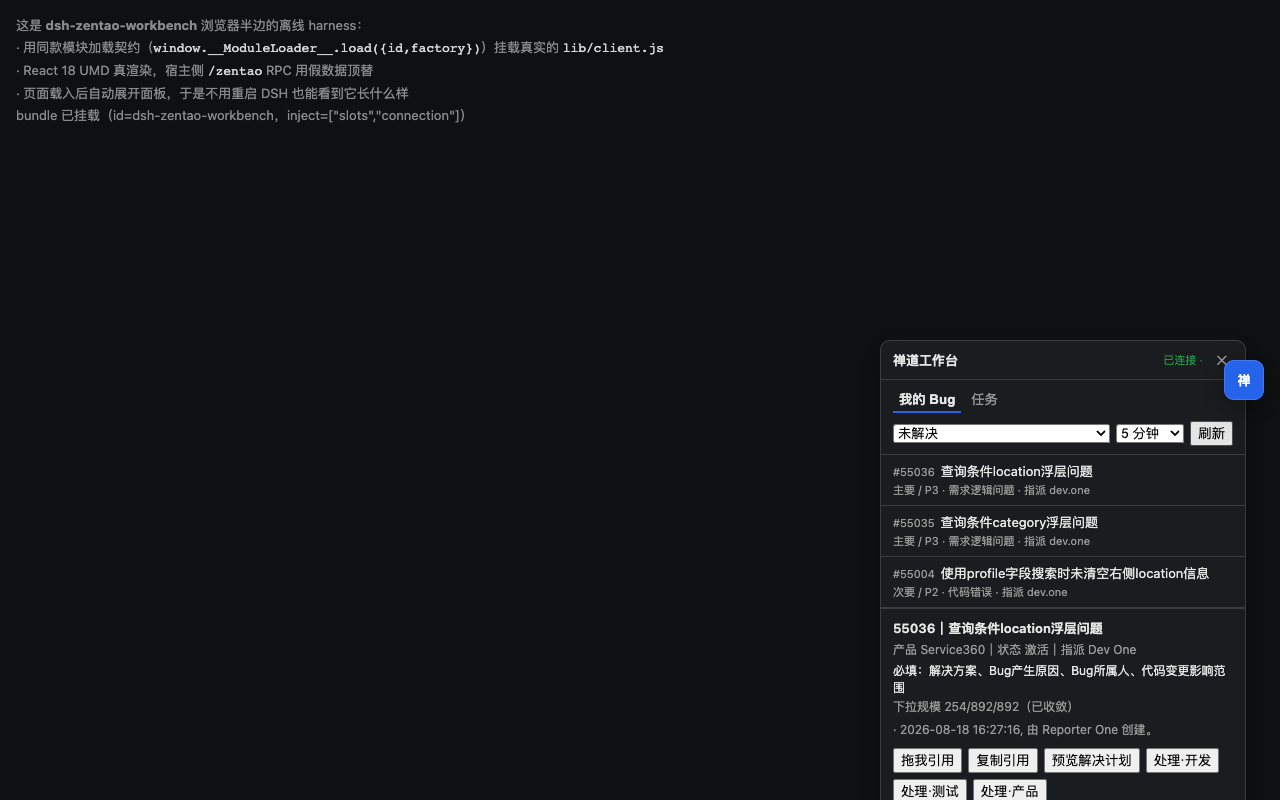
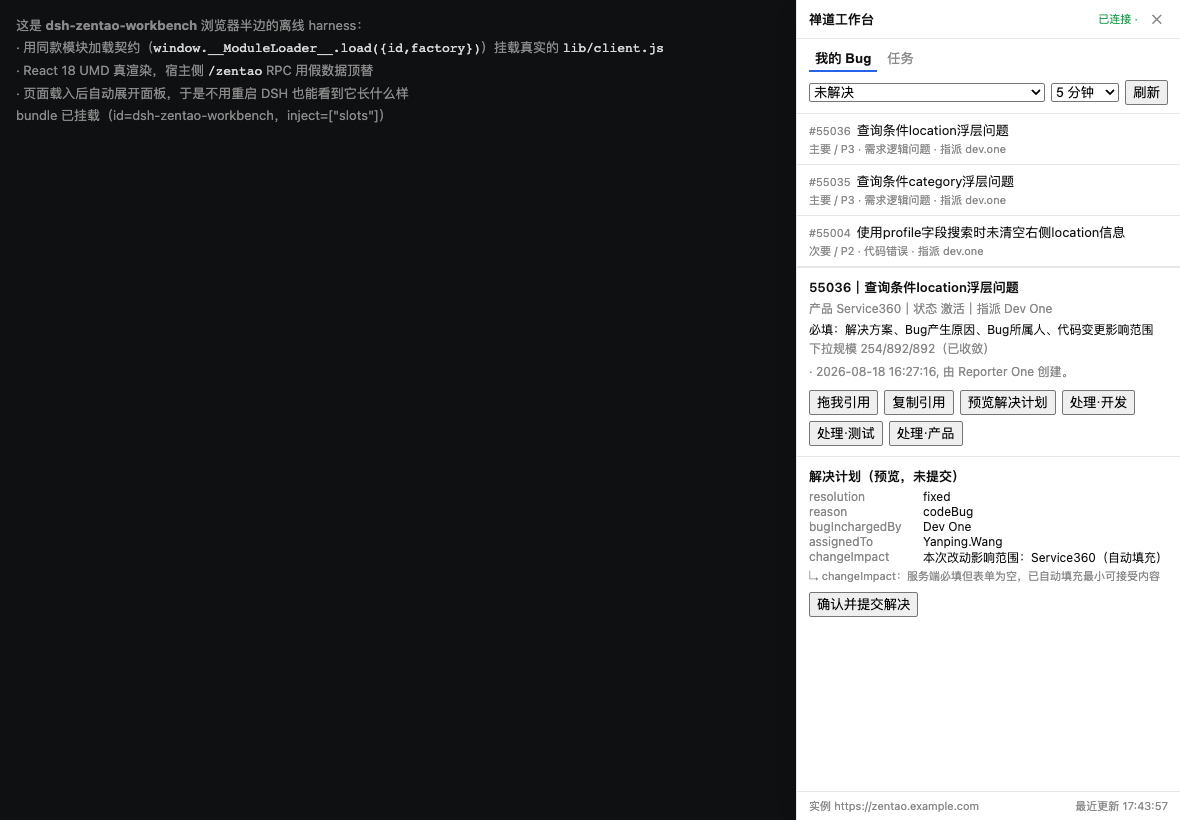
修「最大化后全部靠上了」：布局只用视口单位（百分比在真实外壳里塌成 0）
用户反馈面板能用了，但"页面布局没按实际大小来，最大化后全部靠上了"。

根因是我上一轮**过度拟合测试环境**造成的：harness 里那个 520×360 的合成容器比真实
外壳更严苛，我据此把抽屉高度从 `100vh` 改成 `100%`。而真实外壳的 overlay 是**带
transform、高度 auto 的祖先**——它成为 fixed 元素的定位盒，百分比按它解析。

Chromium 实测（三种定位盒，同一份代码）：

| 布局 | 定位盒 | `100%` 版 | `100vh` 版 |
|---|---|---|---|
| plain | 视口 | 800px ✓ | 800px ✓ |
| autoheight（transform + auto 高 = 真实外壳） | 该祖先 | **0px（塌掉）** | **800px ✓** |
| clipped | 520×360 祖先 | 360px | 800px |

而且**标签有同一个病**：`top: 50%` 也按该祖先解析 → 0 → 贴顶（用户看到的"全部靠上"
同时指标签与抽屉）。注意 `max-height: 100%` 也会被解析成 0，所以不能靠它兜底。

改：抽屉 `height: 100vh; max-height: 100vh; box-sizing: border-box`；标签 `top: 50vh`
（保留 `translateY(-50%)`）。视口单位在任何容器里都有确定值。

真浏览器验证（Playwright，file:// 直开、不依赖静态服务）：autoheight / plain / clipped
三种布局下**抽屉高度 = 视口高度**（800/800/1080@最大化）、标签**垂直中偏 0px**、
在屏内；无页面报错。截图 docs/panel-logged-in.png（满高抽屉 + 详情卡 + 计划预览）、
docs/panel-not-logged-in.png 已按当前构建重生成，旧的两张合成场景截图删除以免自相矛盾。

回归网：bundle 测试断言标签 `top === '50vh'`、抽屉 `height/maxHeight === '100vh'`，
且不得出现 `maxHeight: '100%'`。

README 增「布局铁律」一节，把三种定位盒的实测数字与"过度拟合测试环境"的教训写下来。
tsc（host+client）clean；vitest 87/87。

diff --git a/tests/browser-harness/index.html b/tests/browser-harness/index.html
@@ -11,6 +11,10 @@
   /* ?layout=clipped reproduces the shell's overlay: a transformed ancestor
      becomes the containing block for position:fixed, and overflow:hidden clips
      anything placed with viewport math. */
+  /* ?layout=autoheight reproduces the shell that made the drawer collapse:
+     the transformed ancestor establishes the containing block but has NO
+     definite height, so `height: 100%` resolves to auto (content height). */
+  #auto { position: absolute; left: 0; top: 0; right: 0; transform: translateZ(0); }
   #clip { position: absolute; left: 240px; top: 160px; width: 520px; height: 360px;
     border: 1px dashed #4b5563; border-radius: 8px;
     transform: translateZ(0); overflow: hidden; background: rgba(255,255,255,.02); }
@@ -27,6 +31,7 @@
 </div>
 <div id="root"></div>
 <div id="clip" style="display:none"><div id="clipRoot"></div></div>
+<div id="auto" style="display:none"><div id="autoRoot"></div></div>
 
 <script src="vendor/react.production.min.js"></script>
 <script src="vendor/react-dom.production.min.js"></script>
@@ -51,11 +56,12 @@
   const params = new URLSearchParams(location.search)
   const UNAUTH = params.get('state') === 'unauth'
   // Mount inside the transformed/clipped container to reproduce the shell.
-  const CLIPPED = params.get('layout') === 'clipped'
-  if (CLIPPED) {
-    document.getElementById('clip').style.display = 'block'
-    document.getElementById('root').style.display = 'none'
-  }
+  const LAYOUT = params.get('layout') ?? 'plain'
+  const CLIPPED = LAYOUT === 'clipped'
+  const AUTOHEIGHT = LAYOUT === 'autoheight'
+  if (LAYOUT !== 'plain') document.getElementById('root').style.display = 'none'
+  if (CLIPPED) document.getElementById('clip').style.display = 'block'
+  if (AUTOHEIGHT) document.getElementById('auto').style.display = 'block'
   const UNAUTH_PROBES = [
     { id: 'bridge', label: '浏览器插件桥', ready: true, detail: '守护进程在运行；扩展轮询标志为 false（该标志不可靠，以实测为准）', hint: '守护进程在，但扩展没有在轮询：打开 Chrome 确认 dsh-fetch-page 扩展已启用，然后重试' },
     { id: 'cookie-jar', label: 'Chrome cookie 导出', ready: true, detail: 'jar 可用（10 个 cookie，3 个会话级），导出时间 2026/9/28 16:37:16', hint: '含会话级 cookie：浏览器一关就失效，需要时重新导出' },
@@ -138,7 +144,7 @@
 <script src="vendor/client.js"></script>
 
 <script>
-  const clipMount = () => (CLIPPED ? 'clipRoot' : 'root')
+  const clipMount = () => (CLIPPED ? 'clipRoot' : AUTOHEIGHT ? 'autoRoot' : 'root')
   const status = document.getElementById('status')
   try {
     if (definition === undefined) throw new Error('bundle 没有调用 window.__ModuleLoader__.load')

diff --git a/lib/client.js b/lib/client.js
@@ -348,7 +348,11 @@ function ZentaoPanel(deps) {
         onClick: () => setOpen((value) => !value),
         style: {
             position: 'fixed',
-            top: '50%',
+            // `50vh`, not `50%`: a percentage resolves against the containing block,
+            // and the shell's overlay is a transformed ancestor **without a definite
+            // height** — where `50%` becomes 0 and the tab snaps to the top. Viewport
+            // units are definite in every container.
+            top: '50vh',
             right: 0,
             transform: 'translateY(-50%)',
             zIndex: 9999,
@@ -564,10 +568,14 @@ function ZentaoPanel(deps) {
             zIndex: 10000,
             width: 384,
             maxWidth: '92vw',
-            // `100%` (not `100vh`): follow the box we are actually positioned
-            // against. Measured in a 520x360 containing block, `100vh` overflowed it
-            // by 440px; `100%` fits both that case and a full-window overlay.
-            height: '100%',
+            // Viewport height, never a percentage. Measured in Chromium: with a
+            // transformed ancestor whose height is auto (the shell's overlay), both
+            // `height: 100%` and `max-height: 100%` resolve to 0 — the drawer vanished
+            // / collapsed to the top ("最大化后全部靠上了"). `100vh` is definite
+            // everywhere; the cap is viewport-based too, so it can never be 0.
+            height: '100vh',
+            maxHeight: '100vh',
+            boxSizing: 'border-box',
             display: 'flex',
             flexDirection: 'column',
             overflow: 'hidden',

diff --git a/src/client/panel.ts b/src/client/panel.ts
@@ -293,7 +293,11 @@ export function ZentaoPanel(deps: PanelDeps): ReactNode {
     onClick: () => setOpen((value) => !value),
     style: {
       position: 'fixed',
-      top: '50%',
+      // `50vh`, not `50%`: a percentage resolves against the containing block,
+      // and the shell's overlay is a transformed ancestor **without a definite
+      // height** — where `50%` becomes 0 and the tab snaps to the top. Viewport
+      // units are definite in every container.
+      top: '50vh',
       right: 0,
       transform: 'translateY(-50%)',
       zIndex: 9999,
@@ -573,10 +577,14 @@ export function ZentaoPanel(deps: PanelDeps): ReactNode {
       zIndex: 10000,
       width: 384,
       maxWidth: '92vw',
-      // `100%` (not `100vh`): follow the box we are actually positioned
-      // against. Measured in a 520x360 containing block, `100vh` overflowed it
-      // by 440px; `100%` fits both that case and a full-window overlay.
-      height: '100%',
+      // Viewport height, never a percentage. Measured in Chromium: with a
+      // transformed ancestor whose height is auto (the shell's overlay), both
+      // `height: 100%` and `max-height: 100%` resolve to 0 — the drawer vanished
+      // / collapsed to the top ("最大化后全部靠上了"). `100vh` is definite
+      // everywhere; the cap is viewport-based too, so it can never be 0.
+      height: '100vh',
+      maxHeight: '100vh',
+      boxSizing: 'border-box',
       display: 'flex',
       flexDirection: 'column',
       overflow: 'hidden',

diff --git a/tests/client-bundle.spec.ts b/tests/client-bundle.spec.ts
@@ -140,7 +140,9 @@ describe('browser bundle', () => {
     const style = tree.props.style as Record<string, unknown>
     expect(style.position).toBe('fixed')
     expect(style.right).toBe(0)
-    expect(style.top).toBe('50%')
+    // Viewport units only: percentages collapse to 0 inside the shell's
+    // transformed, auto-height overlay (measured), which parked the tab at the top.
+    expect(style.top).toBe('50vh')
     expect(String(style.transform)).toContain('translateY(-50%)')
     expect(style.left).toBeUndefined()
   })
